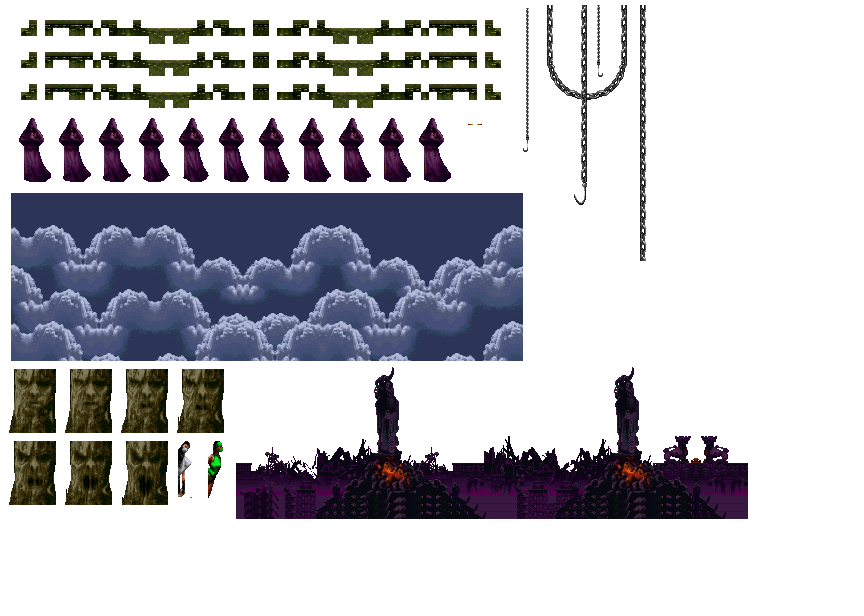
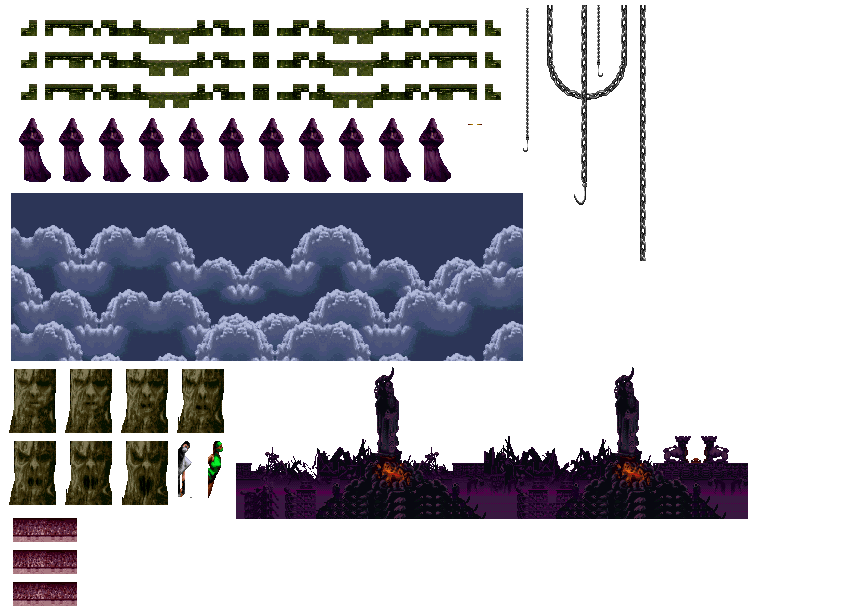
crowd in final stage

Changed region(s): [[0.0, 0.8328, 0.0938, 0.987]]

diff --git a/home.js b/home.js
@@ -299,7 +299,7 @@ function main(){
 			//console.log(this.costume);
 			var coords = this.coordinates.get(this.costume);
 			//console.log((this.x+decalagex-camerax+coords.decx*this.orientation-this.orientation*coords.width/2+shakex)*this.orientation,ground-this.y-coords.height-coords.decy+shakey);
-			ctx.drawImage(this.skin,coords.offx,coords.offy,coords.width,coords.height,(this.x+decalagex-camerax*ratio+coords.decx*this.orientation-this.orientation*coords.width/2+shakex)*this.orientation,ground-this.y-coords.height-coords.decy+shakey,coords.width,coords.height);
+			ctx.drawImage(this.skin,coords.offx,coords.offy,coords.width,coords.height,(this.x+decalagex-camerax*ratio+coords.decx*this.orientation-this.orientation*coords.width/2)*this.orientation,ground-this.y-coords.height-coords.decy,coords.width,coords.height);
 			ctx.setTransform(1, 0, 0, 1, 0, 0);
 			ctx.scale(1,1);
     	}
@@ -422,6 +422,18 @@ function main(){
 		}
 		afficher(){
 			this.drawSkinBackground(0.4);
+		}
+	}
+
+	class CrowdShao extends VisualObject{
+		constructor(x,y){
+			super(x,y,1,propspng,"crowd1",propscoordinates,10,-2);
+			this.cost_cpt = randomInt(0,10);
+		}
+		afficher(){
+			this.cost_cpt=(this.cost_cpt+1)%18;
+			this.costume = "crowd"+(Math.floor(this.cost_cpt/6)+1).toString();
+			this.drawSkinBackground(backgroundscroll[chosenstage]);
 		}
 	}
 
@@ -6053,7 +6065,7 @@ function main(){
 		chosenstage = Math.floor(Math.random()*numberofstages);
 		if(arcadelevel>=0){chosenstage = arcadestagesorder[arcadelevel];}
 		if(survival_handler.is_active()){chosenstage = survival_handler.get_stage();}
-		//chosenstage = 2;
+		//chosenstage = 5;
 		ground = grounds[chosenstage];
 		stage_size = stagesizes[chosenstage];
 	}
@@ -6091,6 +6103,11 @@ function main(){
 		}
 		else if(chosenstage==2){
 			add_to_objects_set(new WasteStruct());
+		}
+		else if(chosenstage==numberofstages){
+			for(var i=-3;i<5;i++){
+				add_to_objects_set(new CrowdShao(-30+71*i,59));
+			}
 		}
 	}
 

diff --git a/costumescoordinates.js b/costumescoordinates.js
@@ -1919,6 +1919,9 @@ function getpropscoordinates(){
 	propscoordinates.set("jadecoucou",{offx:208,width:15,offy:441,height:57,decx:0,decy:0});
 	propscoordinates.set("eyes",{offx:468,width:14,offy:124,height:1,decx:0,decy:0});
 	propscoordinates.set("wastestruct",{offx:236,width:512,offy:367,height:152,decx:0,decy:0});
+	propscoordinates.set("crowd1",{offx:13,width:64,offy:518,height:24,decx:0,decy:0});
+	propscoordinates.set("crowd2",{offx:13,width:64,offy:550,height:24,decx:0,decy:0});
+	propscoordinates.set("crowd3",{offx:13,width:64,offy:582,height:24,decx:0,decy:0});
 	return propscoordinates;
 }
 
